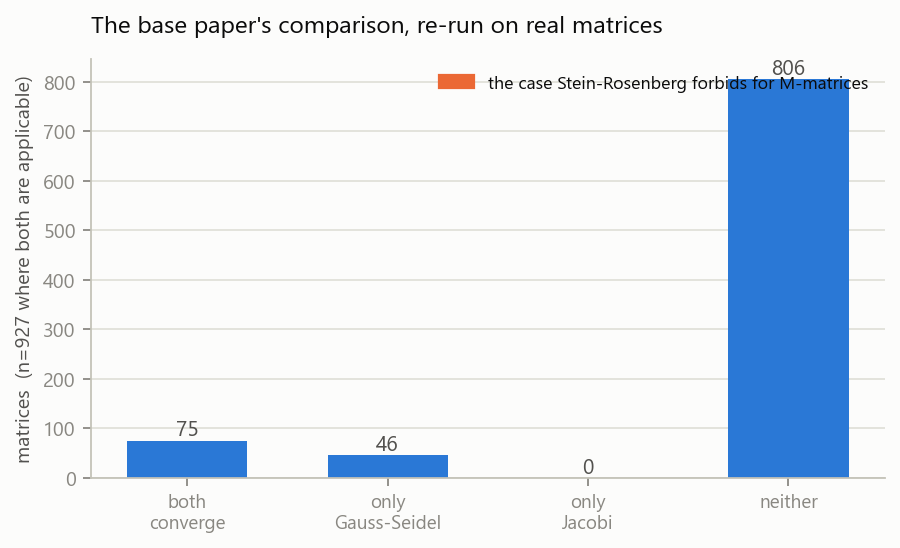
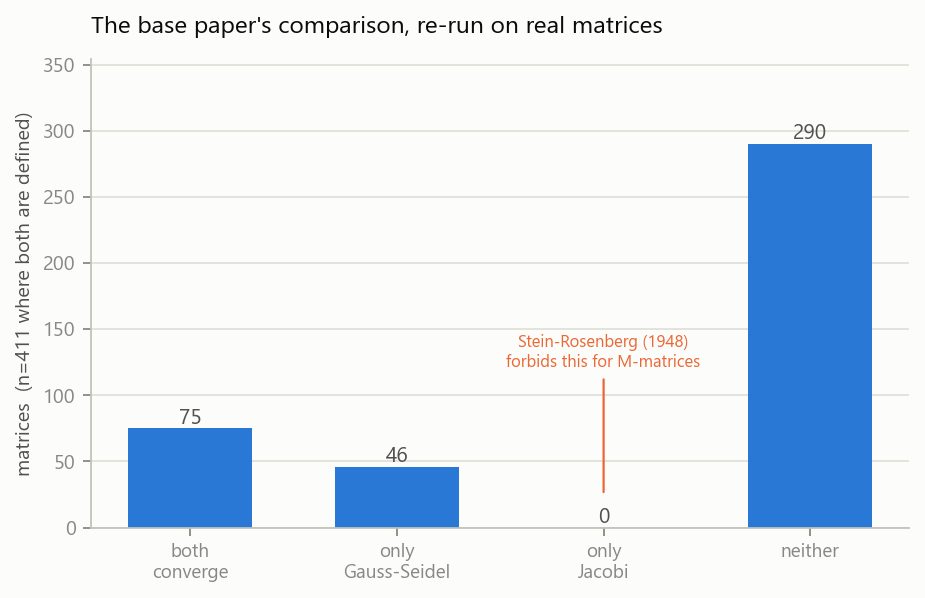
Fix two wrong denominators and a sign bug in the figures
The overlapping legend was the visible symptom; underneath it the chart was wrong.

11_jacobi_vs_gauss_seidel compared the two methods across all 927 matrices instead of
the 411 where both are defined, so the 491 systems with a zero diagonal were being
counted as 'neither converges'. The bars read 75 / 46 / 0 / 806; they now read
75 / 46 / 0 / 290, which sums to 411. This is exactly the denominator error the project
exists to correct, reproduced in our own plotting code.

09_prediction_vs_observation had the same missing restriction, and a second defect that
made it nonsense: pd.concat widens a boolean column to int, so '~' became bitwise
negation rather than logical, and ~1 == -2 drove the 'not solved' bars to -300. Counts
are now computed as len(group) - solved and each method's six bars total 411.

Both charts carry value labels and axis headroom now, the Stein-Rosenberg note is an
annotation on the empty column rather than a legend swatch for a bar with no height, and
the applicable-status list is a single shared constant instead of three copies of the
same literal.

diff --git a/tools/make_figures.py b/tools/make_figures.py
@@ -64,6 +64,11 @@ plt.rcParams.update({
     "font.size": 9, "axes.titlesize": 11, "legend.fontsize": 8,
 })
 
+#: Statuses meaning "the method was defined here and we let it try". Every rate in
+#: every figure divides by this, never by the corpus -- dividing by the corpus is the
+#: error that reported Conjugate Gradient at 10.4% when it solves 84% of what it can.
+APPLICABLE = ["solved", "inaccurate", "did_not_converge", "diverged"]
+
 FIGURES = []
 
 
@@ -92,8 +97,7 @@ def fig_scoreboard(res):
     rows = []
     for m in order:
         sub = res[res.method == m]
-        applicable = sub.status.isin(["solved", "inaccurate", "did_not_converge",
-                                      "diverged"]).sum()
+        applicable = sub.status.isin(APPLICABLE).sum()
         solved = (sub.status == "solved").sum()
         rows.append((m, applicable / len(sub) if len(sub) else np.nan,
                      solved / applicable if applicable else np.nan, applicable, solved))
@@ -165,7 +169,7 @@ def fig_outcomes(res):
 
 def fig_domain_heatmap(res):
     """Conditional success per domain and method. One hue, light to dark."""
-    app = res.status.isin(["solved", "inaccurate", "did_not_converge", "diverged"])
+    app = res.status.isin(APPLICABLE)
     g = (res.assign(_app=app, _ok=res.status == "solved")
            .groupby(["domain", "method"])[["_app", "_ok"]].sum())
     rate = (g["_ok"] / g["_app"].replace(0, np.nan)).unstack()
@@ -328,25 +332,40 @@ def fig_prediction(res, spec):
         return
     rows = []
     for meth, col in (("Jacobi", "jacobi_verdict"), ("Gauss-Seidel", "gs_verdict")):
-        obs = (res[(res.method == meth)].set_index("matrix").status == "solved")
+        sub = res[res.method == meth].set_index("matrix")
+        # Same restriction as the base-paper figure: a method that was never defined
+        # on a matrix has no observation there, and counting it as "did not solve"
+        # would blame the solver for a system it was never given.
+        sub = sub[sub.status.isin(APPLICABLE)]
+        obs = sub.status == "solved"
         pred = spec.set_index("matrix")[col]
         joined = pd.concat([pred.rename("pred"), obs.rename("obs")], axis=1).dropna()
         for verdict in ("converges", "too_slow", "diverges"):
             s = joined[joined.pred == verdict]
             if len(s):
-                rows.append((meth, verdict, s.obs.sum(), (~s.obs).sum()))
+                # astype(bool) matters. pd.concat widens a boolean column to int, and
+                # "~" is then bitwise negation rather than logical: ~1 == -2. Without
+                # this the "not solved" bars were negative, reaching -300.
+                solved = int(s.obs.astype(bool).sum())
+                rows.append((meth, verdict, solved, len(s) - solved))
     if not rows:
         return
     d = pd.DataFrame(rows, columns=["method", "verdict", "solved", "not_solved"])
 
-    fig, ax = plt.subplots(figsize=(7.6, 3.4))
+    fig, ax = plt.subplots(figsize=(8.2, 3.9))
     x = np.arange(len(d))
-    ax.bar(x - 0.19, d.solved, width=0.36, color=C1, label="observed: solved")
-    ax.bar(x + 0.19, d.not_solved, width=0.36, color=C2, label="observed: not solved")
+    groups = [ax.bar(x - 0.19, d.solved, width=0.36, color=C1, label="observed: solved"),
+              ax.bar(x + 0.19, d.not_solved, width=0.36, color=C2, label="observed: not solved")]
+    ax.set_ylim(0, max(d.solved.max(), d.not_solved.max()) * 1.22)
+    for bars in groups:
+        for bar in bars:
+            h = bar.get_height()
+            ax.text(bar.get_x() + bar.get_width() / 2, h, f"{int(h)}",
+                    ha="center", va="bottom", fontsize=7.5, color=INK2)
     ax.set_xticks(x, [f"{m}\n{v}" for m, v in zip(d.method, d.verdict)], fontsize=8)
-    ax.set_ylabel("matrices")
+    ax.set_ylabel("matrices  (where the method is defined)")
     ax.set_title("Predicted verdict against observed outcome", loc="left", pad=12)
-    ax.legend(loc="upper right")
+    ax.legend(loc="upper center", bbox_to_anchor=(0.5, -0.16), ncols=2)
     ax.grid(axis="x", visible=False)
     save(fig, "09_prediction_vs_observation",
          "'too_slow' is the case the textbook criterion cannot express: rho < 1, so "
@@ -382,9 +401,14 @@ def fig_refinement(study):
 
 def fig_base_paper_test(res, spec):
     """The base paper's own question, asked of real matrices."""
-    j = res[res.method == "Jacobi"].set_index("matrix").status == "solved"
-    g = res[res.method == "Gauss-Seidel"].set_index("matrix").status == "solved"
-    d = pd.concat([j.rename("J"), g.rename("G")], axis=1).dropna()
+    jac = res[res.method == "Jacobi"].set_index("matrix")
+    gs = res[res.method == "Gauss-Seidel"].set_index("matrix")
+    # Restrict to systems where BOTH methods are actually defined. Comparing on the
+    # whole corpus instead puts the 491 systems with a zero diagonal into "neither
+    # converges", which is the very denominator error this project is about.
+    applicable = jac.status.isin(APPLICABLE) & gs.status.isin(APPLICABLE)
+    d = pd.concat([(jac.status == "solved").rename("J"),
+                   (gs.status == "solved").rename("G")], axis=1)[applicable].dropna()
     if d.empty:
         return
     counts = [int((d.J & d.G).sum()), int((~d.J & d.G).sum()),
@@ -392,16 +416,22 @@ def fig_base_paper_test(res, spec):
     labels = ["both\nconverge", "only\nGauss-Seidel", "only\nJacobi", "neither"]
     colours = [C1, C1, C2, C1]
 
-    fig, ax = plt.subplots(figsize=(6.4, 3.4))
+    fig, ax = plt.subplots(figsize=(6.6, 3.8))
     bars = ax.bar(range(4), counts, width=0.6, color=colours)
+    ax.set_ylim(0, max(counts) * 1.22)          # headroom so labels clear the top
     for b, c in zip(bars, counts):
         ax.text(b.get_x() + b.get_width() / 2, c, f"{c}", ha="center", va="bottom",
                 fontsize=9.5, color=INK2)
+    # The "only Jacobi" bar is zero, so a legend swatch for it would explain a colour
+    # nothing on the chart shows -- and it collided with the tallest bar's value.
+    # Annotate the empty column directly instead.
+    ax.annotate("Stein-Rosenberg (1948)\nforbids this for M-matrices",
+                xy=(2, 0), xytext=(2, max(counts) * 0.42), ha="center", fontsize=7.5,
+                color=C2, arrowprops=dict(arrowstyle="-", color=C2, lw=1.0,
+                                          shrinkA=2, shrinkB=16))
     ax.set_xticks(range(4), labels, fontsize=8.5)
-    ax.set_ylabel(f"matrices  (n={len(d)} where both are applicable)")
+    ax.set_ylabel(f"matrices  (n={len(d)} where both are defined)")
     ax.set_title("The base paper's comparison, re-run on real matrices", loc="left", pad=12)
-    ax.legend(handles=[Patch(color=C2, label="the case Stein-Rosenberg forbids for M-matrices")],
-              loc="upper right")
     ax.grid(axis="x", visible=False)
     save(fig, "11_jacobi_vs_gauss_seidel",
          "The denominator is matrices where both methods are defined, not the "
